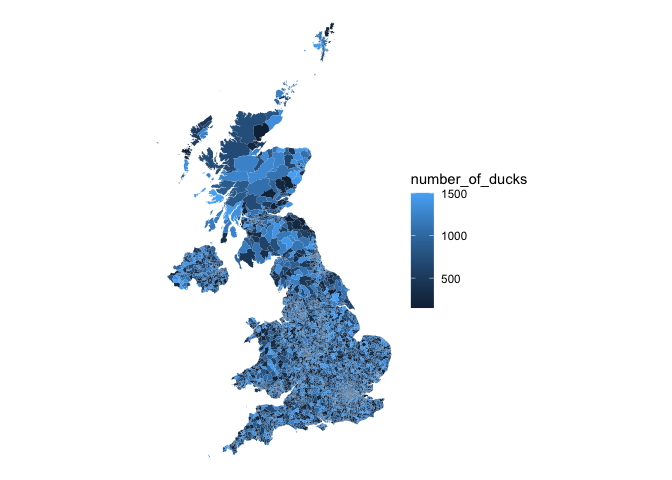
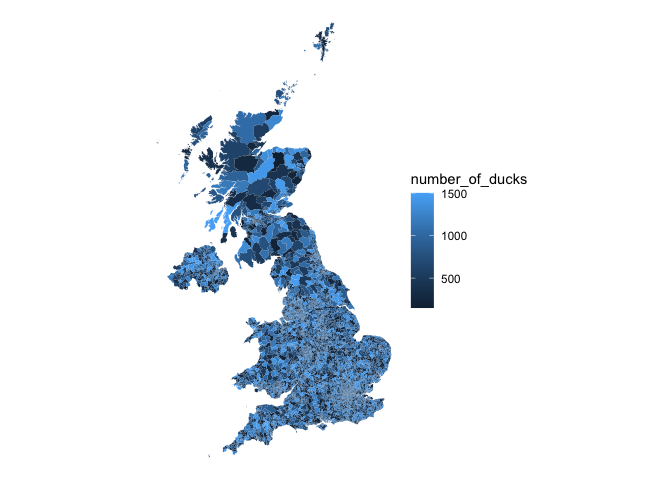
Fix readme merge errors

Changed region(s): [[0.25, 0.2188, 0.5938, 0.9375], [0.4688, 0.0625, 0.5, 0.125], [0.4062, 0.1875, 0.4375, 0.2188]]

diff --git a/README.md b/README.md
@@ -24,12 +24,8 @@ of ducks) and plotted with e.g. `ggplot2` and `leaflet`.
 
 Current datasets are:
 
-<<<<<<< HEAD
 - dec2022 (December 2022)
 - dec2021 (December 2021)
-=======
--   dec2022 (December 2022)
->>>>>>> 21fc3924ee64915ec4d71af42a4c6c98dfe05a55
 
 ## Installation
 
@@ -54,7 +50,7 @@ wardboundaries::dec2022
 #> Geodetic CRS:  WGS 84
 #> # A tibble: 8,483 × 14
 #>    WD22CD    WD22NM    WD22NMW LAD22CD LAD22NM  BNG_E  BNG_N  LONG   LAT OBJEC…¹
-#>    <chr>     <chr>     <chr>   <chr>   <chr>    <int>  <int> <dbl> <dbl>   <int>
+#>  * <chr>     <chr>     <chr>   <chr>   <chr>    <int>  <int> <dbl> <dbl>   <int>
 #>  1 E05000650 Astley B… " "     E08000… Bolton  370670 412906 -2.44  53.6       1
 #>  2 E05000651 Bradshaw  " "     E08000… Bolton  374590 413058 -2.39  53.6       2
 #>  3 E05000652 Breightm… " "     E08000… Bolton  374437 409641 -2.39  53.6       3
@@ -83,7 +79,7 @@ dec2022
 #> Geodetic CRS:  WGS 84
 #> # A tibble: 8,483 × 14
 #>    WD22CD    WD22NM    WD22NMW LAD22CD LAD22NM  BNG_E  BNG_N  LONG   LAT OBJEC…¹
-#>    <chr>     <chr>     <chr>   <chr>   <chr>    <int>  <int> <dbl> <dbl>   <int>
+#>  * <chr>     <chr>     <chr>   <chr>   <chr>    <int>  <int> <dbl> <dbl>   <int>
 #>  1 E05000650 Astley B… " "     E08000… Bolton  370670 412906 -2.44  53.6       1
 #>  2 E05000651 Bradshaw  " "     E08000… Bolton  374590 413058 -2.39  53.6       2
 #>  3 E05000652 Breightm… " "     E08000… Bolton  374437 409641 -2.39  53.6       3
@@ -117,29 +113,16 @@ demo_data
 #> # A tibble: 8,483 × 2
 #>    WD22CD    number_of_ducks
 #>    <chr>               <int>
-<<<<<<< HEAD
-#>  1 E05000650             366
-#>  2 E05000651            1132
-#>  3 E05000652            1285
-#>  4 E05000653             368
-#>  5 E05000654             887
-#>  6 E05000655             430
-#>  7 E05000656            1258
-#>  8 E05000657             671
-#>  9 E05000658            1450
-#> 10 E05000659             473
-=======
-#>  1 E05000650            1034
-#>  2 E05000651             750
-#>  3 E05000652             423
-#>  4 E05000653             598
-#>  5 E05000654            1129
-#>  6 E05000655            1262
-#>  7 E05000656            1093
-#>  8 E05000657             959
-#>  9 E05000658            1016
-#> 10 E05000659             705
->>>>>>> 21fc3924ee64915ec4d71af42a4c6c98dfe05a55
+#>  1 E05000650             289
+#>  2 E05000651             915
+#>  3 E05000652             562
+#>  4 E05000653             831
+#>  5 E05000654             286
+#>  6 E05000655            1242
+#>  7 E05000656             622
+#>  8 E05000657             277
+#>  9 E05000658             466
+#> 10 E05000659            1498
 #> # … with 8,473 more rows
 ```
 
@@ -260,16 +243,15 @@ read the data straight into R with `sf`.
 
 ### R map books
 
--   [Spatial Data Science (with applications in
-    R)](https://r-spatial.org/book/) “introduces and explains the
-    concepts underlying spatial data: points, lines, polygons, rasters,
-    coverages, geometry attributes, data cubes, reference systems, as
-    well as higher-level concepts including how attributes relate to
-    geometries and how this affects analysis”
--   [Geocomputation with
-    R](https://geocompr.robinlovelace.net/index.html) “is for people who
-    want to analyze, visualize and model geographic data with open
-    source software”
+- [Spatial Data Science (with applications in
+  R)](https://r-spatial.org/book/) “introduces and explains the concepts
+  underlying spatial data: points, lines, polygons, rasters, coverages,
+  geometry attributes, data cubes, reference systems, as well as
+  higher-level concepts including how attributes relate to geometries
+  and how this affects analysis”
+- [Geocomputation with R](https://geocompr.robinlovelace.net/index.html)
+  “is for people who want to analyze, visualize and model geographic
+  data with open source software”
 
 ## Credits
 
